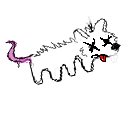
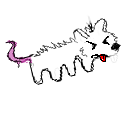
Morning fixes

Changed region(s): [[0.6562, 0.25, 0.875, 0.4062]]

diff --git a/src/coderats/ar/gameScenes/AssembleScene.java b/src/coderats/ar/gameScenes/AssembleScene.java
@@ -196,16 +196,20 @@ public class AssembleScene extends GameScene {
 				GL11.glPushMatrix();
 					GL11.glTranslatef(GLValues.glWidth*0.5f, GLValues.glHeight*0.5f, -5);
 					GL11.glColor4f(1, 0, 0, 1);
-					GL11.glPushMatrix();
-						GL11.glRotatef(90, 0, 0, 1);
-						GL11.glTranslatef(0, 1.5f, 0);
-						GLBitmapFontBlitter.drawString("! OFFLINE !", "font_default", GLValues.glWidth*0.03f, GLValues.glWidth*0.06f, GLBitmapFontBlitter.Alignment.CENTERED);
-					GL11.glPopMatrix();
-					GL11.glPushMatrix();
-						GL11.glRotatef(270, 0, 0, 1);
-						GL11.glTranslatef(0, 1.5f, 0);
-						GLBitmapFontBlitter.drawString("! OFFLINE !", "font_default", GLValues.glWidth*0.03f, GLValues.glWidth*0.06f, GLBitmapFontBlitter.Alignment.CENTERED);
-					GL11.glPopMatrix();
+					if(gameBoard.getRat(0).isAlive()){
+						GL11.glPushMatrix();
+							GL11.glRotatef(90, 0, 0, 1);
+							GL11.glTranslatef(0, 1.5f, 0);
+							GLBitmapFontBlitter.drawString("! OFFLINE !", "font_default", GLValues.glWidth*0.03f, GLValues.glWidth*0.06f, GLBitmapFontBlitter.Alignment.CENTERED);
+						GL11.glPopMatrix();
+					}
+					if(gameBoard.getRat(1).isAlive()){
+						GL11.glPushMatrix();
+							GL11.glRotatef(270, 0, 0, 1);
+							GL11.glTranslatef(0, 1.5f, 0);
+							GLBitmapFontBlitter.drawString("! OFFLINE !", "font_default", GLValues.glWidth*0.03f, GLValues.glWidth*0.06f, GLBitmapFontBlitter.Alignment.CENTERED);
+						GL11.glPopMatrix();
+					}
 				GL11.glPopMatrix();
 			}
 		}

diff --git a/src/coderats/ar/GLRatBoard.java b/src/coderats/ar/GLRatBoard.java
@@ -2,17 +2,12 @@ package coderats.ar;
 
 import java.util.ArrayList;
 import java.util.List;
-import java.util.concurrent.ConcurrentHashMap;
 
-import javax.xml.crypto.dsig.keyinfo.RetrievalMethod;
-
-import org.lwjgl.Sys;
 import org.lwjgl.opengl.GL11;
 
-import coderats.ar.Command.Type;
-import coderats.ar.gameScenes.AssembleScene;
 import ae.gl.GLGraphicRoutines;
 import ae.gl.GLValues;
+import coderats.ar.gameScenes.AssembleScene;
 
 public class GLRatBoard extends GLDrawableItem {
 
@@ -127,9 +122,11 @@ public class GLRatBoard extends GLDrawableItem {
 		for(GLLazor l : lazors){
 			if(l.hitsRat(p1rat)){
 				p1Slot.breakContainedCard(time);
+				p1rat.takeDamage(time);
 			}
 			if(l.hitsRat(p2rat)){
 				p2Slot.breakContainedCard(time);
+				p2rat.takeDamage(time);
 			}
 		}
 		
@@ -153,6 +150,10 @@ public class GLRatBoard extends GLDrawableItem {
 
 	public int getLives(int p) {
 		if(p == 1) return p1Lives; else return p2Lives;
+	}
+
+	public Object getRat(int i) {
+		if(i == 1) return p1rat; else return p2rat;
 	}
 
 }

diff --git a/src/coderats/ar/GLRat.java b/src/coderats/ar/GLRat.java
@@ -52,7 +52,7 @@ public class GLRat {
 			GL11.glColor4f(1,1,1,1);
 		}
 		GLTextureManager.getInstance().bindTexture("rat");
-		if(damage && at < 0.5f){
+		if(damage && at < 0.5f && anitime > time){
 			GL11.glColor4f(1,0.5f,0.5f,(float) (0.5f+Math.sin(time*0.1f)));
 			GLTextureManager.getInstance().bindTexture("rat_damage");
 		} else if(alive && anitime > time || lastCMD.equals(Type.NOP)){
@@ -175,8 +175,9 @@ public class GLRat {
 		return alive;
 	}
 
-	public void takeDamage(){
+	public void takeDamage(long time){
 		damage = true;
+		anitime = time + ANIM_LENGTH;
 	}
 
 	public GLLazor getLazor() {

diff --git a/src/coderats/ar/ARCardSlot.java b/src/coderats/ar/ARCardSlot.java
@@ -161,7 +161,7 @@ public class ARCardSlot extends GLDrawableItem {
 	public void bindCard(ARCard c) {
 	
 		//BONUX
-		if(this.card != null && (c.getID()-this.card.getID())%5 == 0 && c.getCommand().equals(Type.PEW) && this.card.getCommand().equals(Type.PEW)){
+		if(this.card != null && c.getID() < card.getID() && (c.getID()-this.card.getID())%5 == 0 && c.getCommand().equals(Type.PEW) && this.card.getCommand().equals(Type.PEW)){
 			c.setCommand(new Command(Type.QQQ));
 		}
 		
